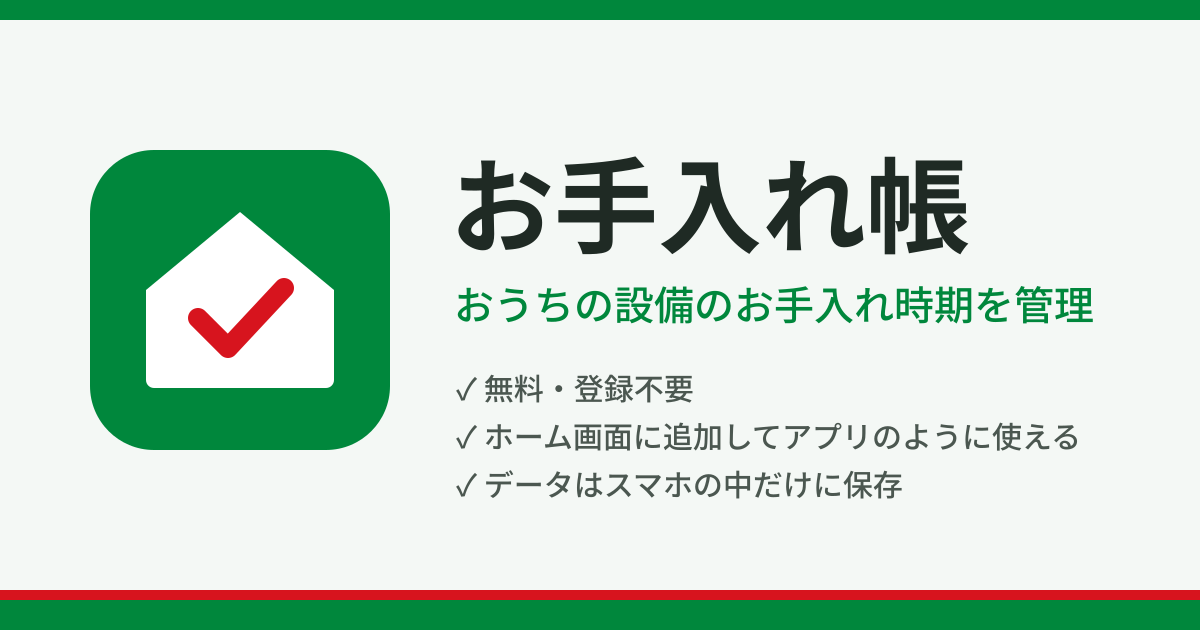
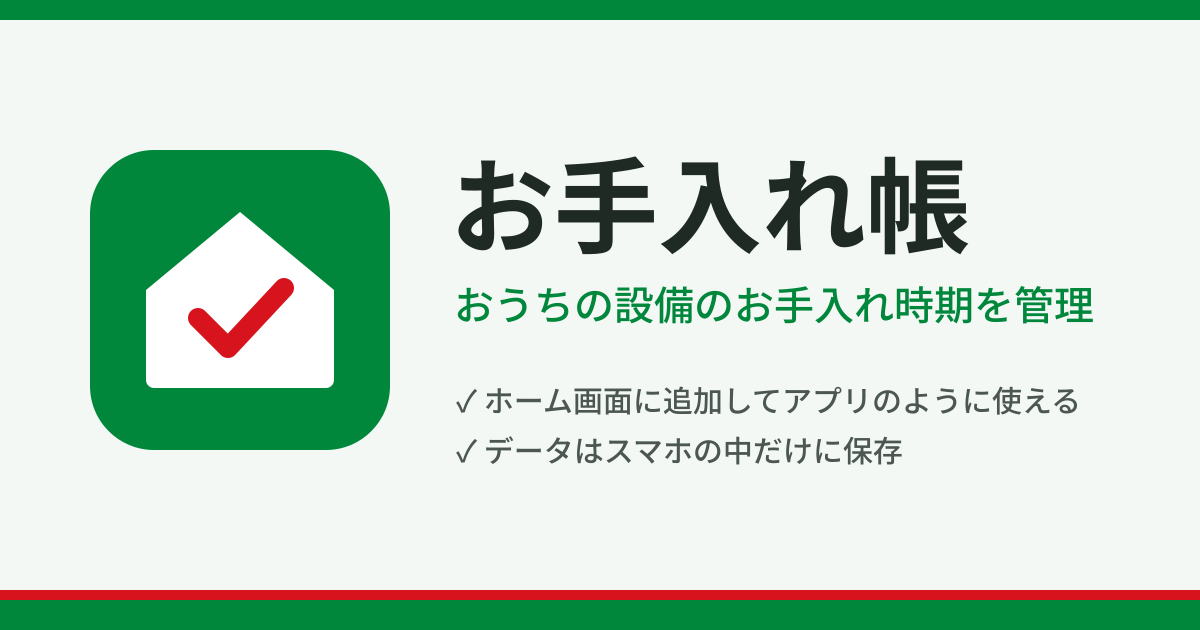
Add files via upload

Changed region(s): [[0.37, 0.573, 0.8942, 0.7841]]

diff --git a/index.html b/index.html
@@ -7,7 +7,7 @@
 <meta property="og:type" content="website">
 <meta property="og:url" content="https://kimimaru14.github.io/oteire/">
 <meta property="og:title" content="お手入れ帳｜おうちの設備 お手入れ管理">
-<meta property="og:description" content="おうちの設備のお手入れ時期を管理する無料アプリ。登録不要で、データはスマホの中だけに保存されます。">
+<meta property="og:description" content="おうちの設備のお手入れ時期を管理するアプリ。データはスマホの中だけに保存されます。">
 <meta property="og:image" content="https://kimimaru14.github.io/oteire/ogp.png">
 <meta property="og:image:width" content="1200">
 <meta property="og:image:height" content="630">
@@ -15,7 +15,7 @@
 <meta property="og:locale" content="ja_JP">
 <meta name="twitter:card" content="summary_large_image">
 <meta name="twitter:title" content="お手入れ帳｜おうちの設備 お手入れ管理">
-<meta name="twitter:description" content="おうちの設備のお手入れ時期を管理する無料アプリ。登録不要で、データはスマホの中だけに保存されます。">
+<meta name="twitter:description" content="おうちの設備のお手入れ時期を管理するアプリ。データはスマホの中だけに保存されます。">
 <meta name="twitter:image" content="https://kimimaru14.github.io/oteire/ogp.png">
 <link rel="manifest" href="manifest.webmanifest">
 <link rel="apple-touch-icon" href="icons/icon-180.png">

diff --git a/sw.js b/sw.js
@@ -1,5 +1,5 @@
 // オフラインでも開けるようにするためのキャッシュ（データはスマホ内に保存され、送信はしません）
-const CACHE = 'otteire-v5';
+const CACHE = 'otteire-v6';
 const FILES = ['./', './index.html', './manifest.webmanifest', './icons/icon-192.png', './icons/icon-512.png', './icons/icon-180.png'];
 self.addEventListener('install', e => { e.waitUntil(caches.open(CACHE).then(c => c.addAll(FILES))); self.skipWaiting(); });
 self.addEventListener('activate', e => { e.waitUntil(caches.keys().then(ks => Promise.all(ks.filter(k => k !== CACHE).map(k => caches.delete(k))))); self.clients.claim(); });
